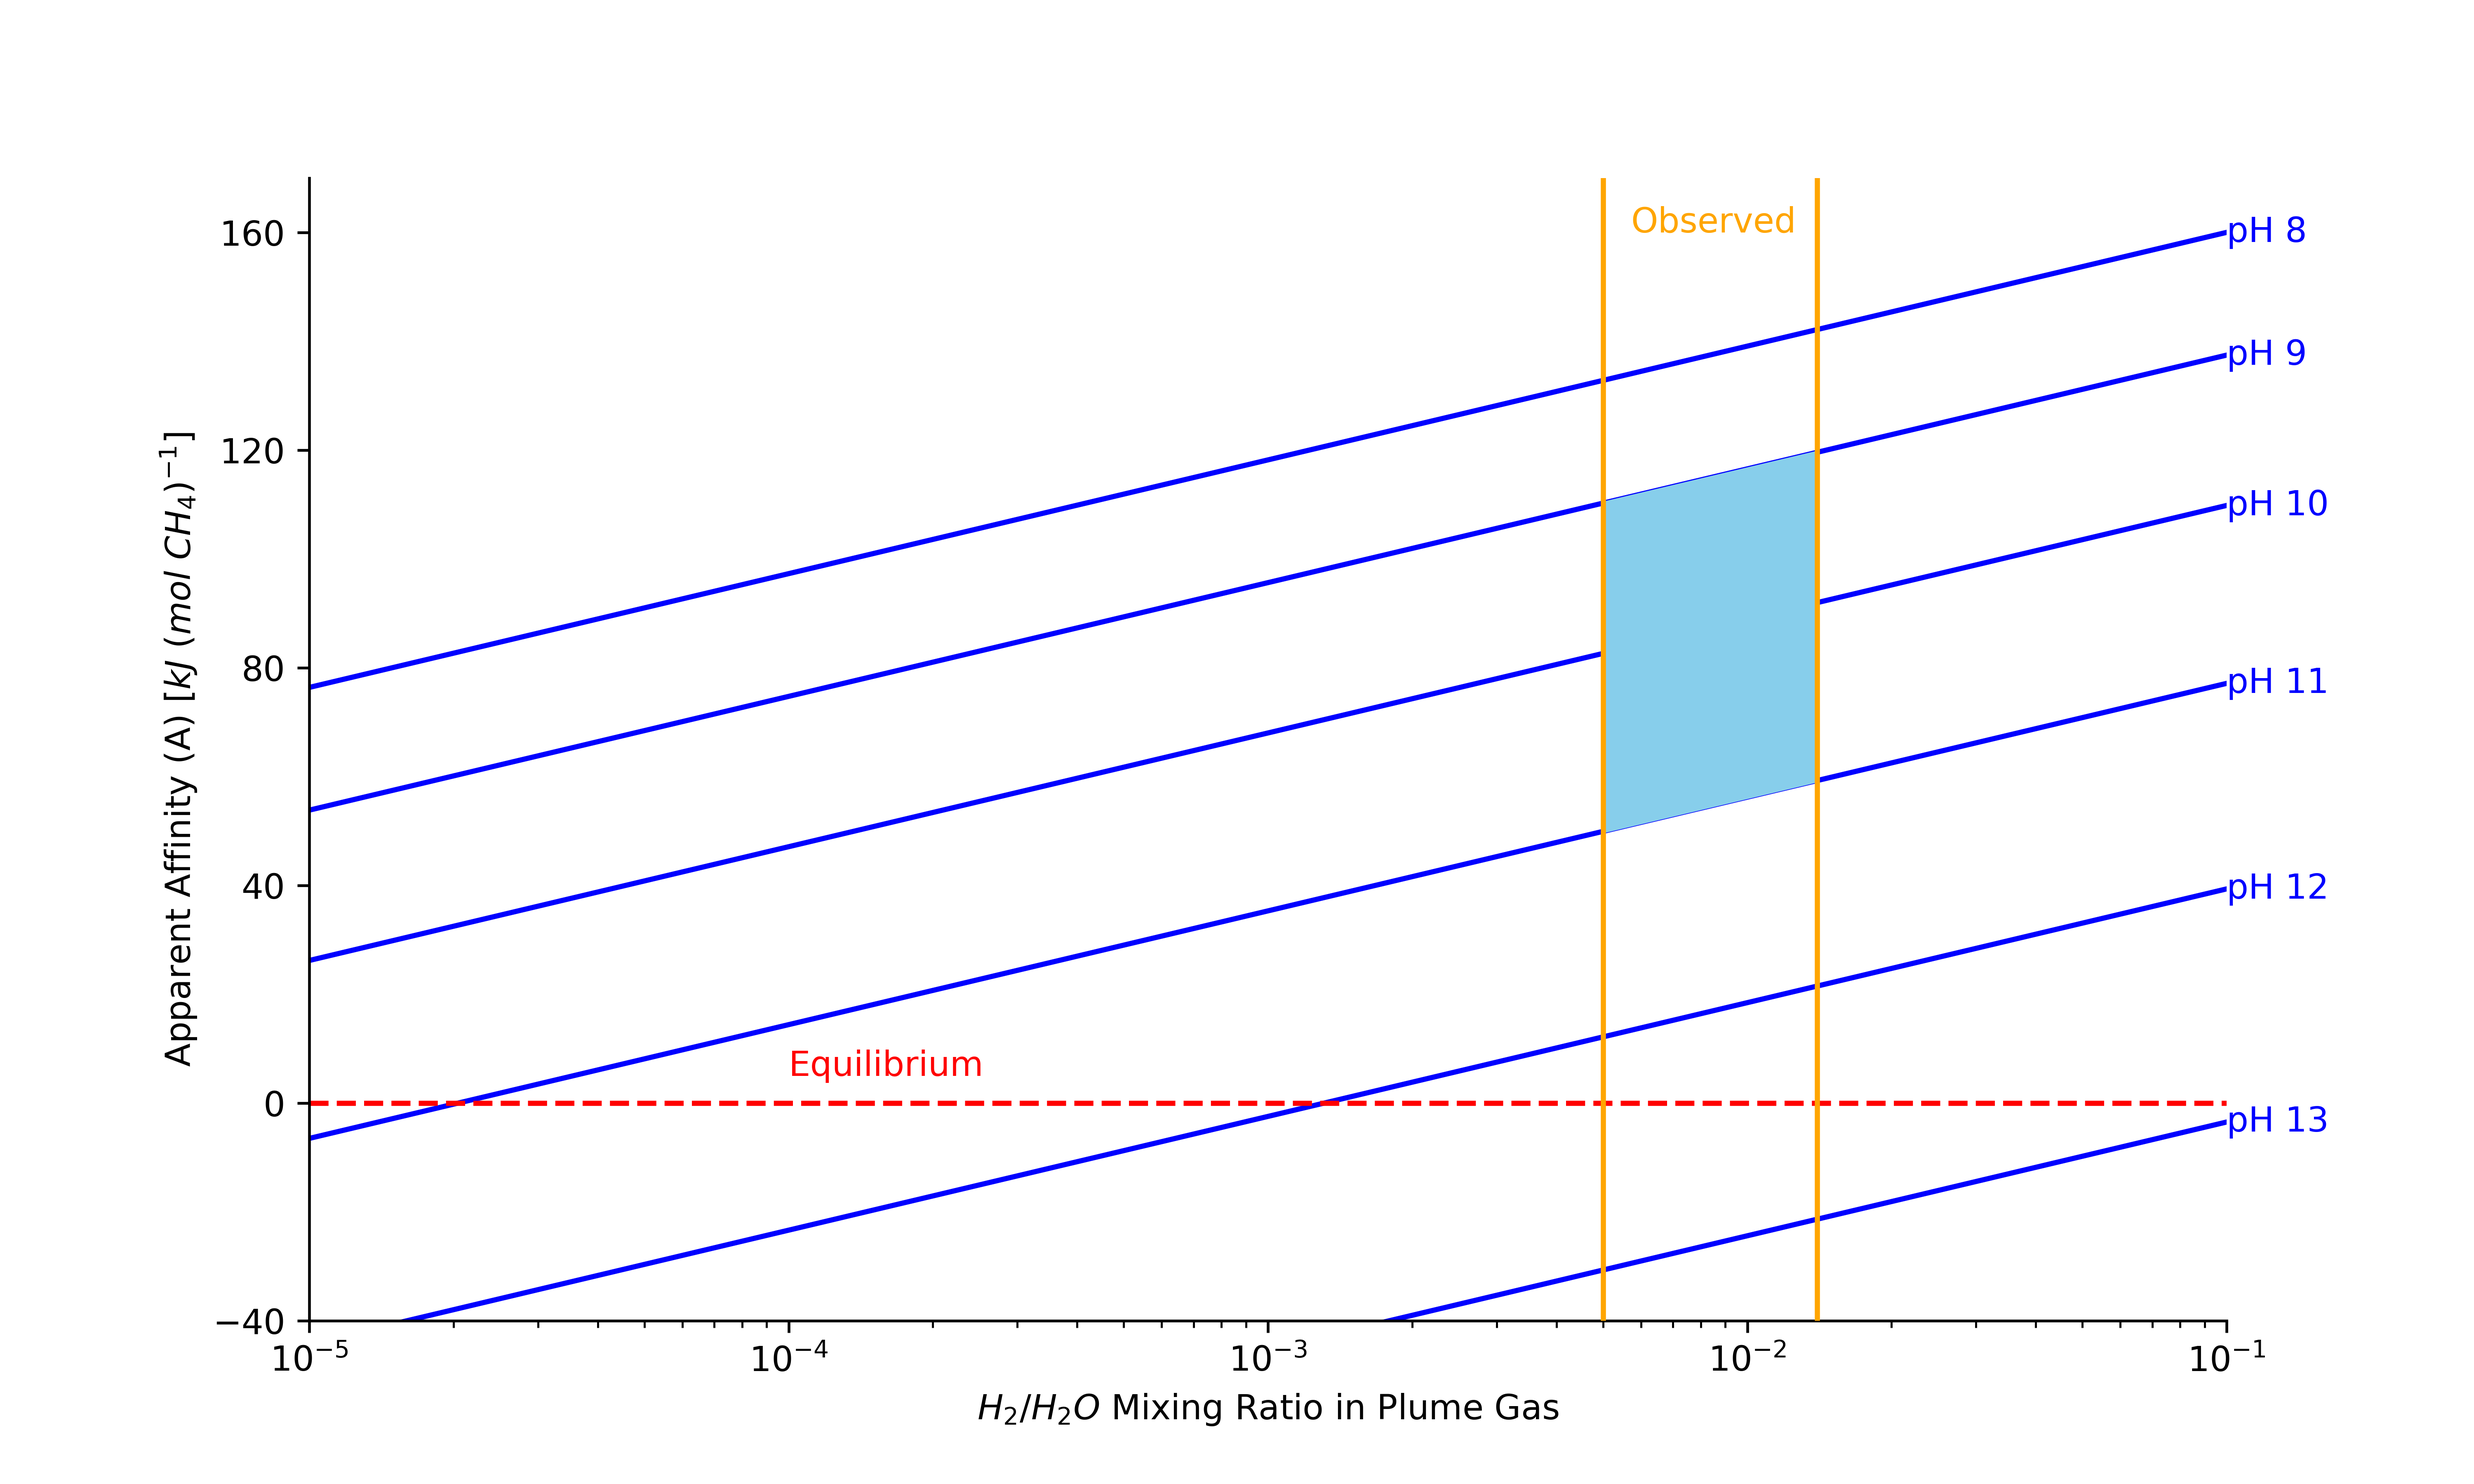
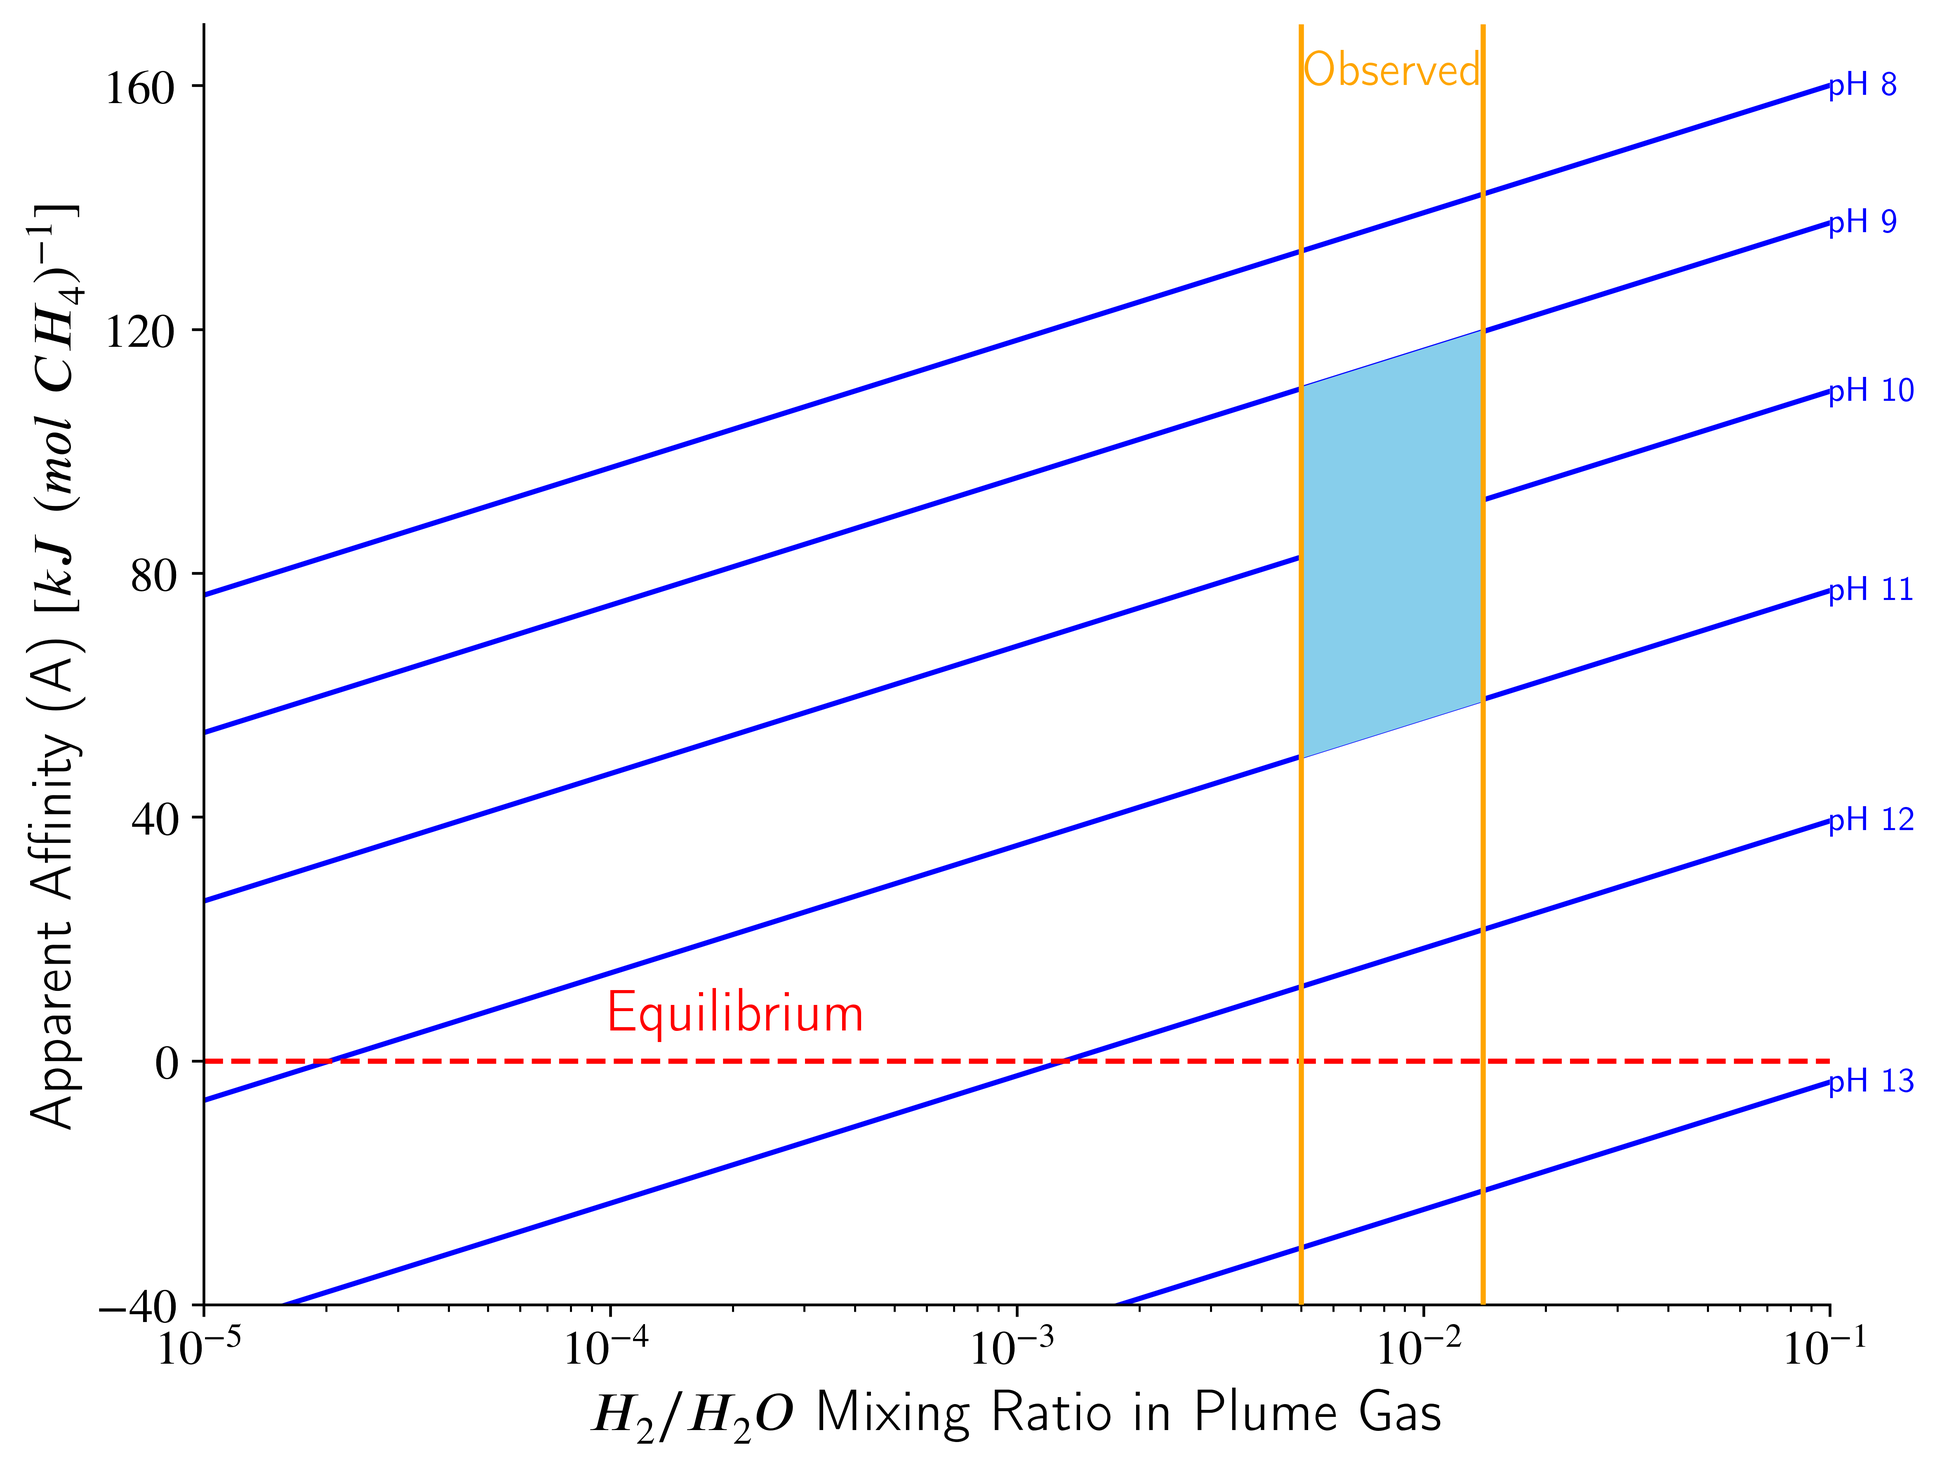
Manuscript WIP - improved figure labeling

diff --git a/PlanetProfile/Thermodynamics/Reaktoro/WIP/Zolotov_2008_Recreation/Replicate_Zolotov_2008.py b/PlanetProfile/Thermodynamics/Reaktoro/WIP/Zolotov_2008_Recreation/Replicate_Zolotov_2008.py
@@ -5,6 +5,7 @@ import matplotlib.pyplot as plt
 from matplotlib.gridspec import GridSpec
 from matplotlib.ticker import LogFormatterExponent
 from scipy.io import savemat
+from adjustText import adjust_text
 
 # Define ROOT (for loading files)
 _ROOT = os.path.dirname(os.path.abspath(__file__))
@@ -20,8 +21,15 @@ siunitx = 'siunitx'
 plt.rcParams.update({
     'text.usetex': True,
     'text.latex.preamble': f'\\usepackage{{{stix}}}\\usepackage{{{mhchem}}}\\usepackage{{{siunitx}}}',
-    'font.family': 'serif',  # Options: 'serif', 'sans-serif', 'monospace', etc.
-    'font.serif': 'STIXGeneral'
+    'font.family': 'sans-serif',  # Changed from 'serif' to 'sans-serif'
+    'font.sans-serif': 'Arial',    # Set to Arial
+    'axes.labelsize': 16,      # Axis label font size
+    'xtick.labelsize': 14,     # X tick label font size
+    'ytick.labelsize': 14,     # Y tick label font size
+    'axes.titlesize': 18,
+        'font.weight': 'bold',           # Makes all text bold
+    'axes.labelweight': 'bold',      # Makes axis labels bold
+    'axes.titleweight': 'bold', 
 })
 
 # Modeling setup
@@ -237,19 +245,23 @@ def Replicate_Zolotov_Core11_Melwani_CO2():
 
     # Generate plots
     figname = os.path.join(_ROOT, 'Zolotov_CO2_Replication')
-    generate_Zolotov_plots(data=(element_names, aqueous_species_names, solid_phases_names, pH_array, aqueous_species_array_molal, element_species_array_molal, solid_species_array_mol, solid_phases_volume_array), x=log_CO2_fugacity, species_lim = species_lim, pH_lim = pH_lim, figname = figname)
+    generate_Zolotov_plots(data=(element_names, aqueous_species_names, solid_phases_names, pH_array, aqueous_species_array_molal, element_species_array_molal, solid_species_array_mol, solid_phases_volume_array), x=log_CO2_fugacity, species_lim = species_lim, pH_lim = pH_lim, figname = figname, exclude_species={'HS-+H2S'})
 
 
 
 
-def generate_Zolotov_plots(data, x, species_lim, pH_lim, figname):
+def generate_Zolotov_plots(data, x, species_lim, pH_lim, figname, exclude_species=None):
     """
     Function to generate plots, modeled after Zolotov's
     :param data: data to plot
     :param x: x range to plot
     :param species_lim: species axis limits
     :param pH_lim: pH axis limits
+    :param figname: output filename
+    :param exclude_species: set of species names to exclude from plotting (optional)
     """
+    if exclude_species is None:
+        exclude_species = set()
     # Define the elements and aqeuous species we want to plot as lines
     lines = {
      ChemicalSpecies('tab:cyan', 'Fe', 'Fe'),
@@ -263,9 +275,10 @@ def generate_Zolotov_plots(data, x, species_lim, pH_lim, figname):
     ChemicalSpecies('tab:olive', 'C', 'C'),
         ChemicalSpecies('tab:olive', 'HS^{-}+H_{2}S', 'HS-+H2S')
     }
+    # Filter out excluded species
+    desired_species_to_plot = [s for s in lines if s.species not in exclude_species]
     # Get data
     element_names, aqueous_species_names, solid_phases_names, pH_array, aqueous_species_array_molal, element_species_array_molal, solid_species_array_mol, solid_phases_volume_array = data
-    desired_species_to_plot = lines
 
     # Set up the plot
     # Create subplots (one on top and one below)
@@ -274,6 +287,8 @@ def generate_Zolotov_plots(data, x, species_lim, pH_lim, figname):
     ax1 = fig.add_subplot(grid[0:3, 0])
     ax2 = fig.add_subplot(grid[3, 0])
     ax3 = fig.add_subplot(grid[4:7, 0])
+    texts_ax1 = []
+    texts_ax3 = []
     for species in desired_species_to_plot:
         if species.species == 'SO4':
             index_species = np.where(np.char.find(aqueous_species_names, species.species) != -1)
@@ -298,8 +313,9 @@ def generate_Zolotov_plots(data, x, species_lim, pH_lim, figname):
             # Find the index of the maximum y value
             max_index = np.argmax(species_molality)
             line,  = ax1.plot(x, species_molality, label=species.species, color = species.color)
-            ax1.text(x[max_index], species_molality[max_index], rf'$\ce{{{species.mhchem_name}}}$', ha='left',
-                       va='top', color=line.get_color(), fontsize=20)
+            text_obj = ax1.text(x[max_index], species_molality[max_index], rf'$\ce{{{species.mhchem_name}}}$', ha='left',
+                       va='top', color=line.get_color(), fontsize=14)
+            texts_ax1.append(text_obj)
     # Add labels and title
     ax1.set_yscale('log')
     # Apply LogFormatterExponent to show only exponents
@@ -317,11 +333,12 @@ def generate_Zolotov_plots(data, x, species_lim, pH_lim, figname):
     ax2.set_ylim(6, 12.5)
     ax2.set_yticks([6, 8, 10, 12])  # Set desired tick locations
     ax2.set_yticklabels(['6', '8', '10', '12'])  # Align text to left
+    ax2.set_xticklabels([]) # hide labels but keep ticks
 
     # Plot the lower plot: pH vs log CO2 fugacity
     ax2.plot(x, pH_array, color='black', linestyle='-', label='pH')
     ax2.set_ylabel('pH')
-    ax2.set_xlabel(r'Log $\text{H}_2$ Fugacity')
+    ax3.set_xlabel(r'Log $\text{H}_2$ Fugacity')
     desired_solid_species_to_plot = solid_phases_names
     for i, species_name in enumerate(desired_solid_species_to_plot):
         species_molality = solid_phases_volume_array[i]
@@ -333,11 +350,29 @@ def generate_Zolotov_plots(data, x, species_lim, pH_lim, figname):
             # Find the index of the maximum y value
             max_index = np.argmax(species_molality)
             line, = ax3.plot(x, species_molality, label=species_name)
-            ax3.text(x[max_index], species_molality[max_index], species_name, ha='left', va='top',
+            text_obj = ax3.text(x[max_index], species_molality[max_index], species_name, ha='left', va='top',
                      color=line.get_color(), fontsize=10)
+            texts_ax3.append(text_obj)
     y_limit_min, y_limit_max = pH_lim
     ax2.set_ylim(bottom=y_limit_min, top = y_limit_max)
     ax3.set_ylabel(r"Vol. of minerals, $\mathrm{cm^{3}}/\mathrm{kg}$ rock")
+    # Set x-axis limits and ticks for ax3
+    x_start = float(np.min(x))
+    x_end = float(np.max(x))
+    ax3.set_xlim(x_start, x_end)
+    # Generate ticks every 2 units from min(x) up to max(x) (not exceeding max)
+    tick_start = int(np.ceil(x_start))
+    tick_end = int(np.floor(x_end))
+    ticks = list(range(tick_start, tick_end + 1, 2))
+    if ticks and ticks[-1] > x_end:
+        ticks = ticks[:-1]
+    ax3.set_xticks(ticks)
+    # After plotting everything, synchronize x-ticks across all axes
+    ax1.set_xticks(ticks)
+    ax2.set_xticks(ticks)
+    # Adjust text to prevent overlap and keep within bounds
+    adjust_text(texts_ax1, ax=ax1, only_move={'points':'y', 'text':'xy'}, arrowprops=dict(arrowstyle='-', color='gray', lw=0.5))
+    adjust_text(texts_ax3, ax=ax3, only_move={'points':'y', 'text':'xy'}, arrowprops=dict(arrowstyle='-', color='gray', lw=0.5))
     plt.tight_layout()
     plt.show()
 

diff --git a/PlanetProfile/Thermodynamics/Reaktoro/WIP/Waite_2017_Recreation/Waite_2017.py b/PlanetProfile/Thermodynamics/Reaktoro/WIP/Waite_2017_Recreation/Waite_2017.py
@@ -1,6 +1,7 @@
 from reaktoro import *
 import matplotlib.pyplot as plt
 import numpy as np
+import csv
 
 # Load the thermodynamic database
 db = SupcrtDatabase("supcrt16-organics")
@@ -13,8 +14,23 @@ ratio_H2_CO2 = 1.6
 P_MPa = [0.1]  # Pressure range in MPa
 T_K = [273]  # Temperature range in K
 
-import csv
-
+# Enable LaTeX rendering and add mhchem to the preamble for plotting
+stix = 'stix'
+mhchem = 'mhchem'
+siunitx = 'siunitx'
+plt.rcParams.update({
+    'text.usetex': True,
+    'text.latex.preamble': f'\\usepackage{{{stix}}}\\usepackage{{{mhchem}}}\\usepackage{{{siunitx}}}',
+    'font.family': 'sans-serif',  # Changed from 'serif' to 'sans-serif'
+    'font.sans-serif': 'Arial',    # Set to Arial
+    'axes.labelsize': 16,      # Axis label font size
+    'xtick.labelsize': 14,     # X tick label font size
+    'ytick.labelsize': 14,     # Y tick label font size
+    'axes.titlesize': 18,
+        'font.weight': 'bold',           # Makes all text bold
+    'axes.labelweight': 'bold',      # Makes axis labels bold
+    'axes.titleweight': 'bold', 
+})
 
 def TableS11_recreation():
     """
@@ -164,7 +180,7 @@ def Fig4_recreation():
                         print(f"ERROR at P = {P} MPa and T = {T} K")
 
     # Plot the calculated affinity values against H2/H2O ratios
-    plt.figure(figsize=(10, 6))
+    plt.figure(figsize=(8.48, 6.727))
     for ph in pH_list:
         ratios = [data[0] for data in pH_affinity_data[ph]]
         affinities = [data[1] for data in pH_affinity_data[ph]]
@@ -179,9 +195,9 @@ def Fig4_recreation():
     # Add observed region indicators
     plt.axvline(x=0.005, color='orange', linestyle='-', label='Observed region', zorder=5)
     plt.axvline(x=0.014, color='orange', linestyle='-', label='Observed region', zorder=5)
-    plt.text(0.0085, 160, 'Observed', ha='center', fontsize=10, color='orange')
+    plt.text(0.0085, 160, 'Observed', ha='center', fontsize=14, color='orange')
     plt.axhline(y=0, color='red', linestyle='--')
-    plt.text(0.0001, 5, 'Equilibrium', color='red', fontsize=10, ha='left')
+    plt.text(0.0001, 5, 'Equilibrium', color='red', fontsize=16, ha='left')
 
     # Highlight the observed region between pH 9 and pH 11
     ratios_pH9 = np.array([data[0] for data in pH_affinity_data[9]])
@@ -202,7 +218,7 @@ def Fig4_recreation():
     ax.spines['right'].set_visible(False)
 
     # Save and display the plot
-    plt.savefig("Fig4_Recreation.png", dpi=600)
+    plt.savefig("Fig4_Recreation.png", dpi=600, bbox_inches='tight')
     plt.show()
 
 

diff --git a/PlanetProfile/Thermodynamics/Reaktoro/WIP/Ocean_Properties_Benchmarking/Ocean_Properties_Benchmark.py b/PlanetProfile/Thermodynamics/Reaktoro/WIP/Ocean_Properties_Benchmarking/Ocean_Properties_Benchmark.py
@@ -3,9 +3,13 @@ Quick file to generate benchmark figures. Note that these benchmark figures can 
 Params.PLOT_PVT_HYDRO and Params.PLOT_HYDRO_PHASE. I make this separate file just to speed up the process by not requiring a Planet profile to ahve to be generated each time.
 """
 import os
+import sys
 import numpy as np
 
-os.chdir("../../../../../") # Change current working directory to '../PlanetProfile/' so we don't get errors when grabbing default configs
+# Add the project root to sys.path
+project_root = os.path.abspath(os.path.join(os.path.dirname(__file__), "../../../../.."))
+if project_root not in sys.path:
+    sys.path.insert(0, project_root)
 from PlanetProfile.GetConfig import Params as configParams, FigMisc
 Params = configParams
 os.chdir(os.path.dirname(os.path.abspath(__file__))) # Reset directory back to this directory
@@ -26,7 +30,7 @@ Params.FigureFiles.xtn = '.png'
 """
 Generate the Seafreeze and Reaktoro (corrected) Pure H2O Comparison
 """
-"""Seafreeze_Pure_H2O_Planet = PlanetStruct('Test')
+Seafreeze_Pure_H2O_Planet = PlanetStruct('Test')
 Seafreeze_Pure_H2O_Planet.Ocean.comp = 'PureH2O'
 Seafreeze_Pure_H2O_Planet.saveLabel = 'PureH2O_Seafreeze'
 Reaktoro_Pure_H2O_Planet = PlanetStruct('Test')
@@ -34,7 +38,7 @@ Reaktoro_Pure_H2O_Planet.Ocean.comp = "CustomSolutionPureH2O = H+: 1e-7, OH-: 1e
 Reaktoro_Pure_H2O_Planet.saveLabel = 'PureH2O_Reaktoro'
 
 Pure_H2O_PlanetList = np.array([Reaktoro_Pure_H2O_Planet, Seafreeze_Pure_H2O_Planet])
-PlotPvThydro(Pure_H2O_PlanetList, Params)"""
+PlotPvThydro(Pure_H2O_PlanetList, Params)
 
 """
 Generate the Seafreeze and Reaktoro (corrected) 1g NaCl Comparison

diff --git a/PlanetProfile/Thermodynamics/Reaktoro/WIP/WIP.md b/PlanetProfile/Thermodynamics/Reaktoro/WIP/WIP.md
@@ -15,6 +15,8 @@
 
 - **MoonMag** - 1.7.5
 
+- **adjustText** - 1.1.1
+
 # Papers
 
 
